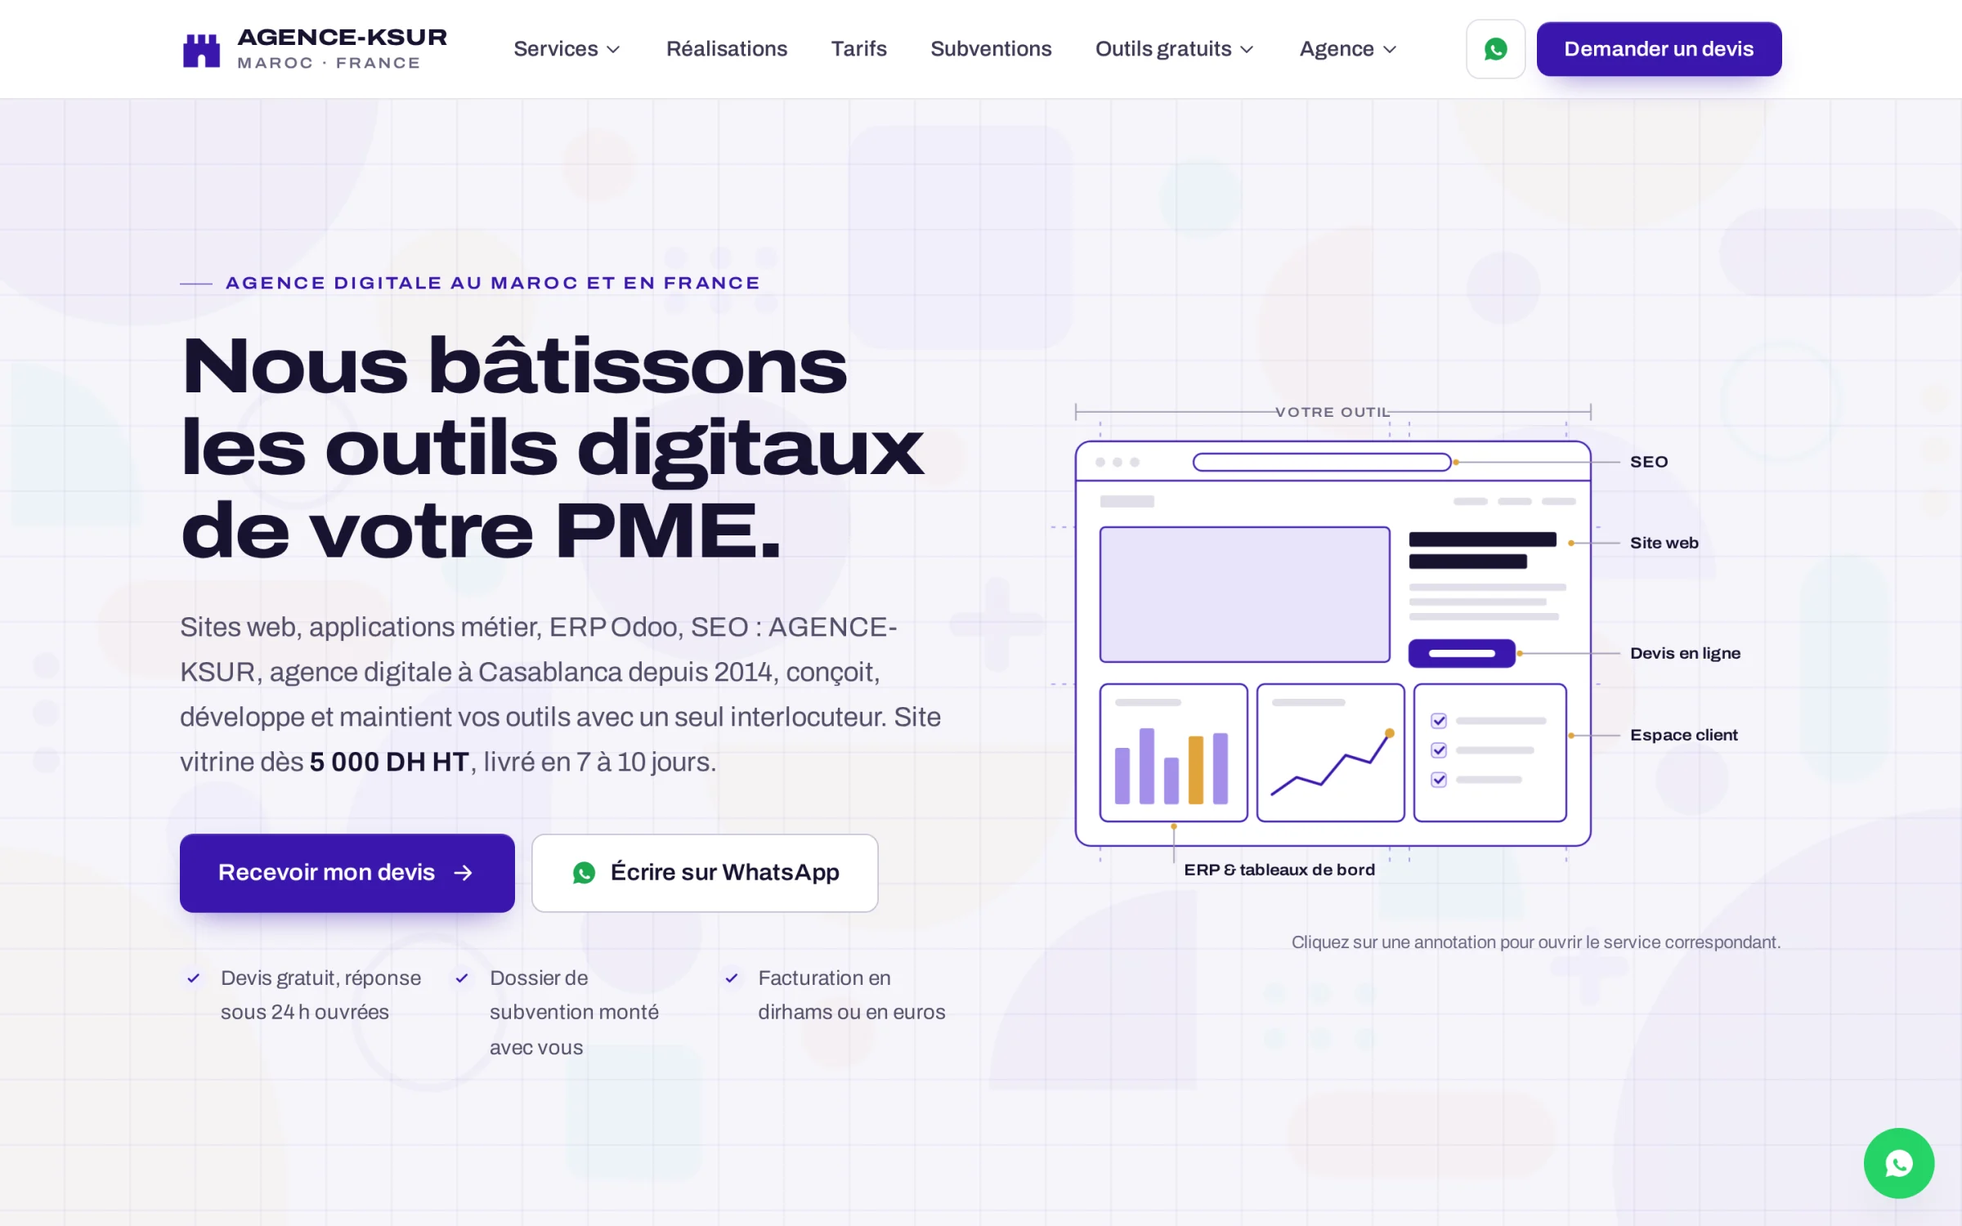
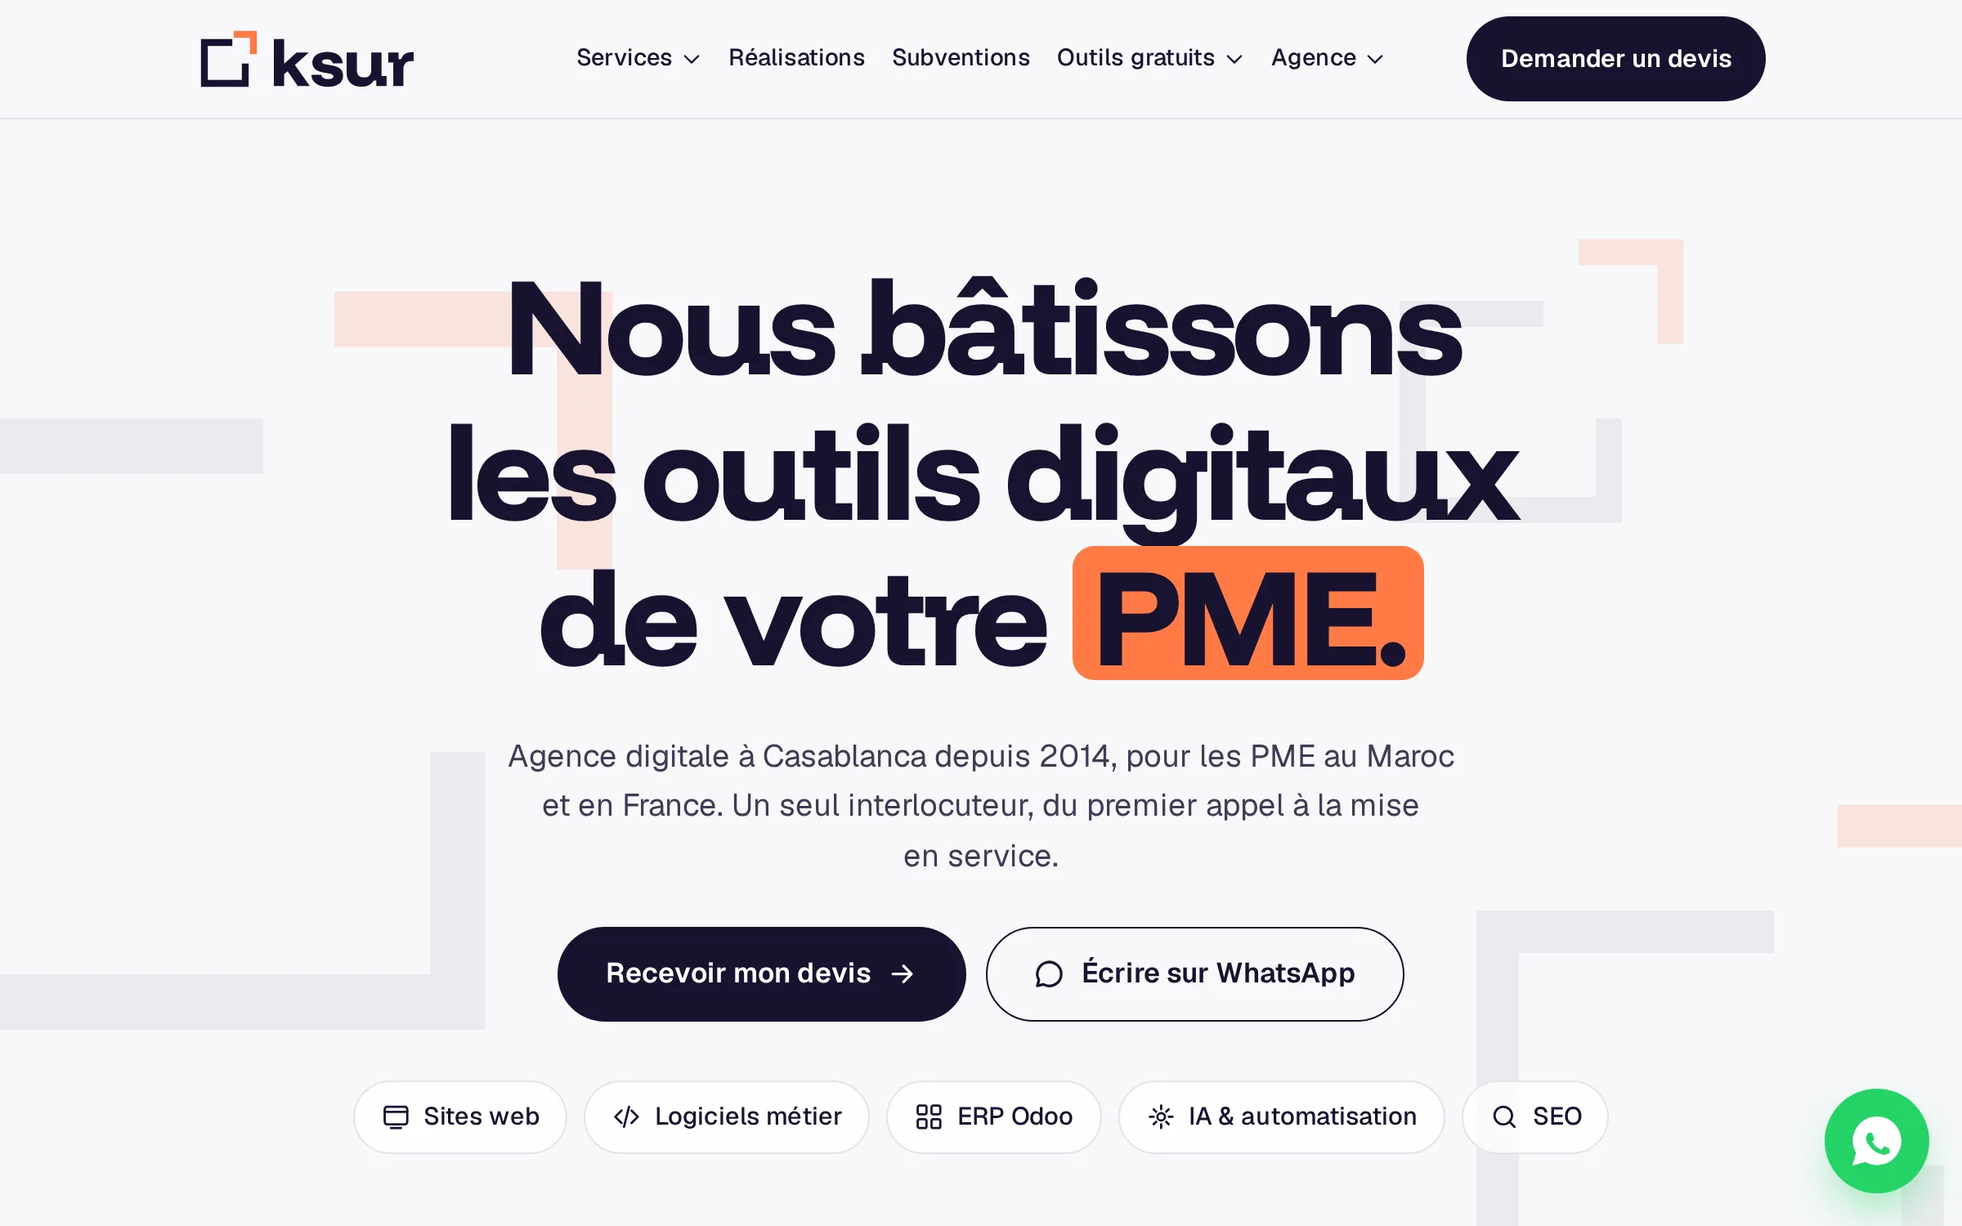
Review fixes (5 Polymarket variants, KSUR name in CV, local-only claim, 35/40 rescore, one Reddit reply) and new KSUR screenshot
- Polymarket: 5 strategy variants x 6 coins x 2 windows = 60 runs
- CV PDFs: KSUR, same name as the site
- /harness: confidential instance plans with the local model only; small model rescored 35/40 after the parser fix
- "every code change" runs CI; agents ask before spending beyond budget
- PDFold described as two vision-model passes; Evagrius late fourth century
- No residence detail left in public source comments
- Portfolio: KSUR screenshot and thumbnail retaken on the new site design

Refs #10

diff --git a/src/data/profile.js b/src/data/profile.js
@@ -21,7 +21,7 @@ export const identity = {
   cvTitle: title,
   // no trailing period: the home hero adds it
   headline: { en: 'I build SaaS products, LLM features and browser agents, and ship them to production', fr: 'Je conçois des SaaS, des fonctionnalités LLM et des agents navigateur, et je les mets en production' },
-  // no public city since 2026-11-26: the site shows the country only (he no longer lives in Lille).
+  // no public city since 2026-11-26: the site shows the country only.
   // Kept as a key because the knowledge base reads it; past places (IMT Nord Europe, ALTAO, Worldline) stay on their entries.
   city: null,
   location: { en: 'France · Remote across Europe', fr: 'France · télétravail partout en Europe' },
@@ -36,7 +36,6 @@ export const identity = {
   experienceSince: 2019,
   domains: { en: 'healthcare, fintech and cybersecurity', fr: 'santé, fintech et cybersécurité' },
   rates: { maltDaily: '550 €/day', upworkHourly: '$55/hr' },
-  // his words of 2026-11-15: no longer in Lille; on-site in mainland France or Belgium means a flight, for a grouped trip
   availability: { en: 'more than 30 h/week · remote; on-site only for a planned, grouped trip (mainland France, Belgium)', fr: 'plus de 30 h/semaine · télétravail ; présentiel seulement sur un déplacement groupé et planifié (France métropolitaine, Belgique)' },
   clientSectors: { en: 'IT & digital services · software publishers · healthcare providers · banking & financial services', fr: 'services numériques et IT · édition de logiciels · fournisseurs de soins de santé · banques et services financiers' },
   entryOffer: { en: 'a paid audit or a 5-10 day proof of concept with one measurable deliverable', fr: 'un audit payant ou une preuve de concept de 5 à 10 jours, avec un livrable mesurable' },
@@ -50,7 +49,7 @@ export const proof = [
   { claim: { en: "Agentic QA with jev, Browser Use's browser agent: 16 permanent checks on what each plan unlocks and who can do what, each one decided by a SQL query on the database; its screenshots on closed tickets found 3 bugs the fixes had missed or introduced.", fr: "QA par agent navigateur avec jev, l'agent navigateur de Browser Use : 16 vérifications permanentes sur ce que débloque chaque offre et qui a le droit de faire quoi, chacune tranchée par une requête SQL sur la base ; ses captures sur des tickets clos ont révélé 3 bugs que les correctifs avaient manqués ou introduits." }, source: 'Piktechs' },
   { claim: { en: 'AI card scanner: of four candidate vision models, two obeyed a prompt-injection card and one errored; the fallback is the one that resisted.', fr: "Scanner de cartes IA : sur quatre modèles de vision candidats, deux ont obéi à une carte piégée par injection de prompt et un a planté ; le repli est celui qui a résisté." }, source: 'Piktechs' },
   { claim: { en: "Internal R&D tool to create, store and replay payment test sets; tests before rollout measured the team's development speed 70% higher.", fr: "Outil interne de R&D pour créer, stocker et rejouer des jeux de tests de paiement ; les tests avant la mise en production ont mesuré une vitesse de développement de l'équipe 70 % plus élevée." }, source: 'Worldline' },
-  { claim: { en: '~12,000 paper trades across 60 paper-trading runs in parallel (7 strategy variants × 6 coins × 2 window lengths), settled against the Chainlink oracle.', fr: "~12 000 trades simulés sur 60 sessions de paper trading en parallèle (7 variantes de stratégie × 6 cryptos × 2 durées de fenêtre), réglés contre l'oracle Chainlink." }, source: 'Polymarket Up/Down Lab' },
+  { claim: { en: '~12,000 paper trades across 60 paper-trading runs in parallel (5 strategy variants × 6 coins × 2 window lengths), settled against the Chainlink oracle.', fr: "~12 000 trades simulés sur 60 sessions de paper trading en parallèle (5 variantes de stratégie × 6 cryptos × 2 durées de fenêtre), réglés contre l'oracle Chainlink." }, source: 'Polymarket Up/Down Lab' },
   { claim: { en: 'PDFs into structured Markdown, in 11 languages.', fr: 'Des PDF en Markdown structuré, en 11 langues.' }, source: 'PDFold' },
   { claim: { en: 'Shopify store built, grown through SEO and marketing, and sold.', fr: 'Boutique Shopify créée, développée par le SEO et le marketing, puis vendue.' }, source: 'Mon Jouet Montessori' },
   { claim: { en: 'Corporate AI training: two sessions, in French and English.', fr: 'Formation IA en entreprise : deux sessions, en français et en anglais.' }, source: 'DRIVECO' },
@@ -76,7 +75,7 @@ export const aiApproach = {
     },
     {
       title: 'Extra checks where a bug would go unnoticed',
-      text: "On Piktechs, every change runs the unit and Playwright tests in CI, and only I approve a release to production. Billing, permissions and anything touching another account's data also get mandatory checks and a review by a different model from the one that wrote the code.",
+      text: "On Piktechs, every code change runs the unit and Playwright tests in CI, and only I approve a release to production. Billing, permissions and anything touching another account's data also get mandatory checks and a review by a different model from the one that wrote the code.",
       proof: { label: 'Case study: Piktechs', href: '/blog/case-study-piktechs' },
     },
     {
@@ -91,7 +90,7 @@ export const aiApproach = {
     },
     {
       title: 'Automate what I do twice',
-      text: "I automate any task I have done twice. An agent runs alone only with an end condition, a budget, a way to check its own work and a way to reach me, and it stops to ask before money, passwords, publishing, a production release or a deletion that cannot be undone.",
+      text: "I automate any task I have done twice. An agent runs alone only with an end condition, a budget, a way to check its own work and a way to reach me, and it stops to ask before spending beyond its budget, and before passwords, publishing, a production release or a deletion that cannot be undone.",
       proof: { label: 'Article: lazy by design', href: '/blog/lazy-by-design' },
     },
   ],
@@ -351,7 +350,7 @@ const allProjects = [
     category: 'saas',
     categoryLabel: 'SaaS',
     role: 'Founder',
-    description: 'SaaS that converted PDFs to structured Markdown with a multi-pass OCR pipeline and Gemini, in 11 languages.',
+    description: 'SaaS that converted PDFs to structured Markdown with two passes of a vision model (Gemini, then GPT through OpenRouter), in 11 languages.',
     previews: [
       { label: 'How it works', src: `${base}/portfolio/pdfold-illustration.webp` },
       { label: 'Motion design', src: `${base}/portfolio/pdfold-motion.mp4`, poster: `${base}/portfolio/pdfold-motion-poster.webp` },
@@ -489,7 +488,7 @@ const allProjects = [
     category: 'research',
     categoryLabel: 'Research',
     role: 'Solo',
-    description: 'A search for a trading edge on Polymarket\'s 5 and 15 minute binary crypto markets: hypothesis, out-of-sample backtest, live paper trading, then falsification. ~12,000 paper trades across 60 paper-trading runs in parallel (7 strategy variants × 6 coins × 2 window lengths), settled against the Chainlink oracle. Result: the market is efficient, and nearly every edge I found came from a measurement artifact.',
+    description: 'A search for a trading edge on Polymarket\'s 5 and 15 minute binary crypto markets: hypothesis, out-of-sample backtest, live paper trading, then falsification. ~12,000 paper trades across 60 paper-trading runs in parallel (5 strategy variants × 6 coins × 2 window lengths), settled against the Chainlink oracle. Result: the market is efficient, and nearly every edge I found came from a measurement artifact.',
     // github.com sets X-Frame-Options: DENY, so the repo cannot be previewed in an iframe.
     previews: [
       { label: 'What it found', src: `${base}/portfolio/polymarket-illustration.webp` },

diff --git a/src/data/harness.js b/src/data/harness.js
@@ -91,7 +91,7 @@ export const harness = {
       points: [
         'Every local tool asks for the same model name, and <b>a small arbiter service</b> picks which model answers: the 180B by default, a 27B when memory runs short.',
         'A video render <b>reserves RAM before it starts</b>: the arbiter switches to the 27B, and the RAM comes back when the render ends.',
-        'Confidential tasks run on a separate browser-agent instance that <b>only talks to the local model</b>.',
+        'Confidential tasks run on a separate browser-agent instance that <b>plans with the local model only</b>; the browser agent’s step decisions still go to its remote model.',
       ],
       visual: { kind: 'image', src: '/harness/services.webp', w: 2200, h: 1760, alt: 'Services page of the mini PC: RTX 3080 eGPU and RAM gauges, the RTX arbiter with its default target, and the local models that can be loaded on the GPU or the integrated graphics.' },
     },
@@ -203,8 +203,8 @@ export const harness = {
       { icon: icons.clock, title: 'Keep it fresh', text: 'Each skill has a card: what can go stale, where to check, how often. Copied skills are watched upstream.', check: 'Checked again 21 days after the last check, if I used it since' },
     ],
     examples: [
-      { from: 'A Reddit thread', title: '“The harder I use Claude Code, the larger the backlog gets”', text: 'Its best answer became the “ready” rule of my dashboard. A local model then triaged the whole backlog, and a Claude session checked the closures it proposed.' },
-      { from: 'A model launch on X', title: 'A new small model, up to twice as fast as my fallback', text: 'It scored 21 out of 40 on the web-agent exam my main model passes at 36. It stayed out of the harness.' },
+      { from: 'A Reddit thread', title: '“The harder I use Claude Code, the larger the backlog gets”', text: 'One reply became the “ready” rule of my dashboard. A local model then triaged the whole backlog, and a Claude session checked the closures it proposed.' },
+      { from: 'A model launch on X', title: 'A new small model, up to twice as fast as my fallback', text: 'It first scored 21 out of 40 on my web-agent exam; a replay showed my parser rejected valid answers, and with the fix it scored 35, against 36 for my main model.' },
       { from: 'My own sessions', title: 'The router behind the skills', text: 'Every Monday a routine compares the skills it suggested with the ones Claude loaded, and scores it on a fixed test set to catch a regression.' },
     ],
   },
@@ -236,7 +236,7 @@ export const harness = {
     note: 'The local agent passed the tests 13 times out of 13 and still missed a function that was never wired in. Only Opus, reading the code, caught it.',
     rows: [
       { who: 'Opus alone', q: 7.2, wait: '2 min 50', best: true },
-      { who: 'Opus reads, the local 27B writes', q: 6.6, wait: '4 min 10' },
+      { who: 'Opus reads, the local 27B writes', q: 6.6, wait: '4 min' },
       { who: 'Opus delegates blind to the 180B', q: 6.5, wait: '7 min' },
       { who: 'Sonnet alone', q: 5.5, wait: '1 min' },
       { who: 'Opus delegates blind to the 27B', q: 4.7, wait: '8 min 30' },

diff --git a/public/fr.tex b/public/fr.tex
@@ -114,7 +114,7 @@ Ingénieur full-stack, je mets des logiciels en production depuis 2019 (cybersé
 \begin{itemize}
     \item \textbf{Conception et exploitation de mon environnement d'agents} : skills, hooks qui transforment les corrections répétées en contrôles, routines planifiées avec alertes d'échec, un \textbf{modèle de 180B à mélange d'experts} (environ 6B actifs par token) en local sur une RTX 3080 20 Go (\link{https://moubarak.dev/harness}{moubarak.dev/harness})
     \item Conception et animation de \textbf{formations IA} pour DRIVECO (opérateur de bornes de recharge) : deux sessions, en français et en anglais, construites sur les processus de l'entreprise, avec un \link{https://www.linkedin.com/posts/el-mahdi-moubarak_merci-\%C3\%A0-toute-l\%C3\%A9quipe-driveco-de-mavoir-share-7480266785208926210-AIX7/}{témoignage public} de sa DRH
-    \item Également CTO de \link{https://www.agence-ksur.com}{KSUR Services} (agence web), en partenariat avec \link{https://the-icon.be}{THE ICON} (Belgique) : choix techniques et livraison des projets d'\m{une dizaine d'entreprises clientes} en France, en Belgique, au Maroc et à La Réunion
+    \item Également CTO de \link{https://www.agence-ksur.com}{KSUR} (agence web), en partenariat avec \link{https://the-icon.be}{THE ICON} (Belgique) : choix techniques et livraison des projets d'\m{une dizaine d'entreprises clientes} en France, en Belgique, au Maroc et à La Réunion
 \end{itemize}
 \stackline{TypeScript\sep Python\sep Next.js\sep Node.js\sep Supabase\sep Docker\sep API OpenAI, Claude, Gemini\sep MCP\sep Browser~Use\sep Claude Code}
 

diff --git a/public/en.tex b/public/en.tex
@@ -113,7 +113,7 @@ Full-stack engineer shipping production software since 2019 in cybersecurity, he
 \begin{itemize}
     \item \textbf{Built and run my own agent harness}: skills, hooks that turn repeated corrections into enforced checks, scheduled routines with failure alerts, and a \textbf{180B mixture-of-experts model} (about 6B active per token) running locally on an RTX 3080 20 GB (\link{https://moubarak.dev/harness}{moubarak.dev/harness})
     \item Designed and delivered \textbf{corporate AI training} for DRIVECO (EV charging operator): two sessions, in French and English, built on the company's own workflows, with a \link{https://www.linkedin.com/posts/el-mahdi-moubarak_merci-\%C3\%A0-toute-l\%C3\%A9quipe-driveco-de-mavoir-share-7480266785208926210-AIX7/}{public testimonial} from its Chief People Officer
-    \item Also CTO of \link{https://www.agence-ksur.com}{KSUR Services} (web agency), in partnership with \link{https://the-icon.be}{THE ICON} (Belgium): technical stack and delivery for \m{about ten client companies} in France, Belgium, Morocco and La Réunion
+    \item Also CTO of \link{https://www.agence-ksur.com}{KSUR} (web agency), in partnership with \link{https://the-icon.be}{THE ICON} (Belgium): technical stack and delivery for \m{about ten client companies} in France, Belgium, Morocco and La Réunion
 \end{itemize}
 \stackline{TypeScript\sep Python\sep Next.js\sep Node.js\sep Supabase\sep Docker\sep OpenAI, Claude, Gemini APIs\sep MCP\sep Browser~Use\sep Claude Code}
 

diff --git a/src/content/blog/case-study-piktechs.md b/src/content/blog/case-study-piktechs.md
@@ -39,7 +39,7 @@ Turning it into a product that bills meant multi-tenant data with real permissio
 
 **An engineering guide for the agent.** It holds the decisions and constraints that the code doesn't show. Project skills cover recurring jobs (issue creation, release checks, a regression guard, agentic QA).
 
-**Extra checks where a bug would go unnoticed.** Every change runs the unit and Playwright tests in CI; the checks grow with what can break. Billing, row-level security, public reads and payment webhooks are different: a bug there raises no error; it charges the wrong amount or shows one account's data to another. Every change in that zone gets its checks plus a review by a dedicated reviewer agent pinned to a different model from the one that wrote the code.
+**Extra checks where a bug would go unnoticed.** Every code change runs the unit and Playwright tests in CI; the checks grow with what can break. Billing, row-level security, public reads and payment webhooks are different: a bug there raises no error; it charges the wrong amount or shows one account's data to another. Every change in that zone gets its checks plus a review by a dedicated reviewer agent pinned to a different model from the one that wrote the code.
 
 **Agents by size of task.** Small edits stay in the main session, since starting an agent costs time. Subagents take work that spans several files, run in parallel only when their file sets don't overlap, and unrelated tasks get their own git worktree.
 

diff --git a/src/data/README.md b/src/data/README.md
@@ -28,8 +28,7 @@ faits structurés ci-dessus. Quand les deux divergent, c'est `profile.js` qui a 
 - **Angle IA d'abord.** EMM est « Founder & AI / Full-Stack Engineer » et ALTAO « Full-Stack & AI
   Engineer » : les deux missions les plus IA du parcours doivent le dire dans leur intitulé, pas
   seulement dans leur description.
-- **France** est le seul lieu affiché (décision du 26/11/2026) : plus de ville de résidence publique, plus jamais
-  Lille comme lieu de vie (`identity.city` vaut `null`, `location` dit « France · Remote across Europe »). Les lieux
+- **France** est le seul lieu affiché (décision du 26/11/2026) : plus de ville de résidence publique (`identity.city` vaut `null`, `location` dit « France · Remote across Europe »). Les lieux
   passés restent sur leur ligne : IMT Nord Europe et ALTAO à Lille, Worldline à Seclin.
 - **Un seul intitulé** partout (site, CV, images de partage, bannière LinkedIn) : « Software & AI Engineer ·
   Full-Stack, LLM Systems, Agents » / « Ingénieur logiciel et IA · full-stack, systèmes LLM, agents ». Jamais

diff --git a/src/content/blog/seven-deadly-sins-of-software.md b/src/content/blog/seven-deadly-sins-of-software.md
@@ -6,7 +6,7 @@ tags: ["Engineering", "Career", "Satire"]
 cover: "/blog/seven-deadly-sins-of-software.webp"
 coverAlt: "A code editor covered in seven sticky notes, each with a pictogram for one sin: crown, hoarded boxes, heart, green grass, overflowing bowl, lightning bolt, snail."
 ---
-Around AD 375, the monk Evagrius Ponticus listed eight evil thoughts. In 590, Pope Gregory the Great trimmed them into seven deadly sins. Neither had GitHub. Both would recognize your codebase, and mine.
+In the late fourth century, the monk Evagrius Ponticus listed eight evil thoughts. In 590, Pope Gregory the Great trimmed them into seven deadly sins. Neither had GitHub. Both would recognize your codebase, and mine.
 
 I've committed all seven, some of them in the same pull request, so the stack traces below include mine.
 

diff --git a/src/content/blog/a-180b-model-in-a-shoebox.md b/src/content/blog/a-180b-model-in-a-shoebox.md
@@ -1,6 +1,6 @@
 ---
 title: "A 180B Model in a Shoebox: Local Inference on a Mini PC and an 8 GB Card"
-description: "Qwen3.8-Flash-Next, 180B parameters, running with Strata on a mini PC and an RTX 3060 Ti 8 GB over OCuLink: about 390 tokens per second reading, 50 to 57 writing. The benchmarks, and the calibration and cable that produced them."
+description: "Qwen3.8-Flash-Next, 180B parameters, running with Strata on a mini PC and an RTX 3060 Ti 8 GB over OCuLink: about 390 tokens per second reading, 52 to 57 writing. The benchmarks, and the calibration and cable that produced them."
 pubDate: 2026-10-15
 tags: ["AI", "Local inference", "Hardware"]
 cover: "/blog/a-180b-model-in-a-shoebox.webp"
